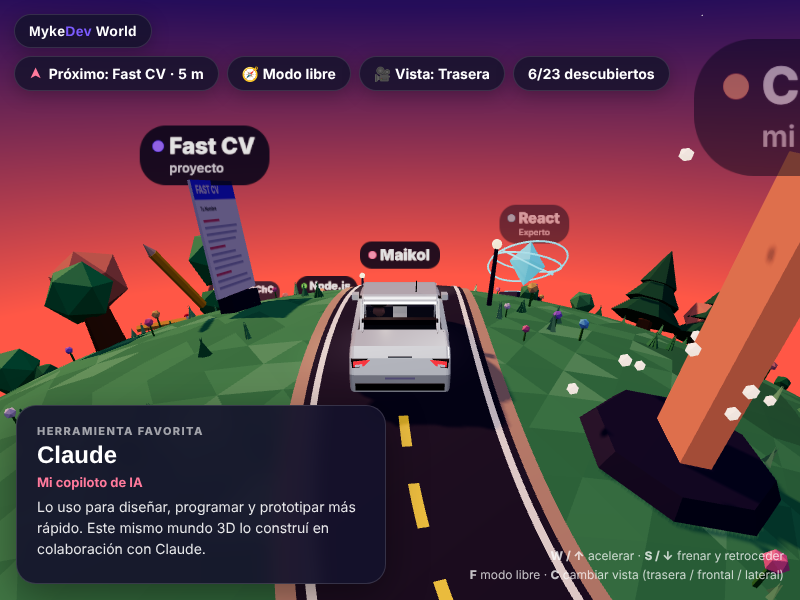
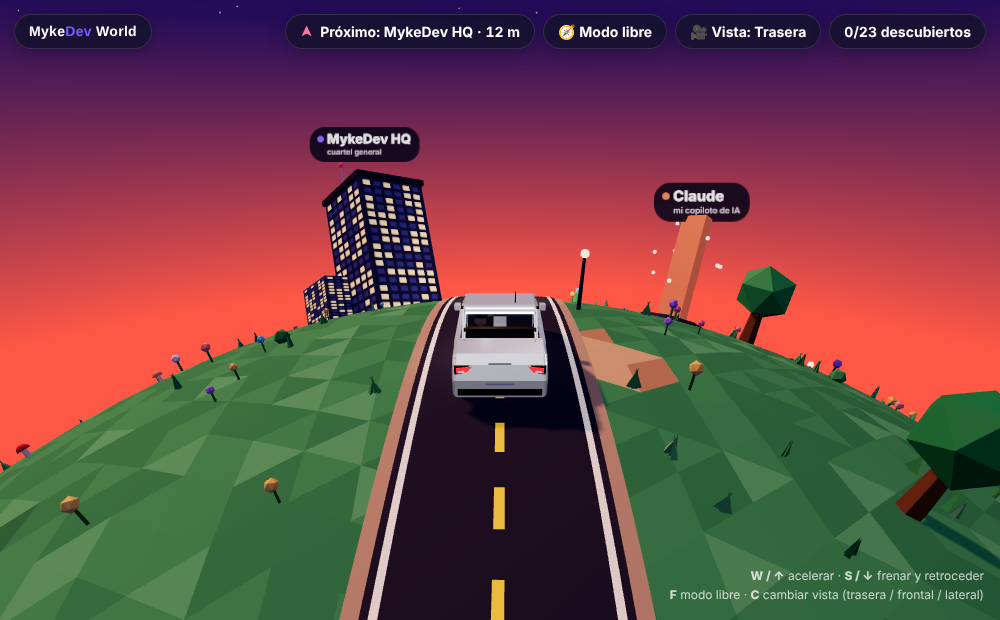
Quita la etiqueta 'Maikol' sobre el auto
Claude-Session: https://claude.ai/code/session_01TxYVHYTsJy4oqXHG9K2Xno

diff --git a/index.html b/index.html
@@ -1116,7 +1116,6 @@ function animateFace(dt,t,lookTarget){
   for (const e of eyes) e.g.scale.setScalar(1+w*0.15);
   torso.scale.y=1+Math.sin(t*2.2)*0.015;
 }
-const nameTag=label('Maikol',null,'#ff7a9c',0.005); nameTag.position.set(0,2.2,0.3); car.add(nameTag);
 const headLight=new THREE.SpotLight(0xfff1c8,40,22,0.55,0.6,1.2);
 headLight.position.set(0,0.75,-2.05); headLight.target.position.set(0,-2,-12); car.add(headLight,headLight.target);
 
@@ -1280,7 +1279,6 @@ function tick(){
   const ck=Math.min(1,dt*3.2);
   camPos.lerp(backP,ck); camLook.lerp(frontP,ck);
   camera.position.copy(camPos); camera.lookAt(camLook);
-  nameTag.material.opacity=1-camBlend; nameTag.visible=camBlend<0.95;
   camera.fov=THREE.MathUtils.lerp(camera.fov,(camMode==='back'?55+sp*10:camMode==='side'?50:55),0.08); camera.updateProjectionMatrix();
 
   renderer.render(scene,camera);
